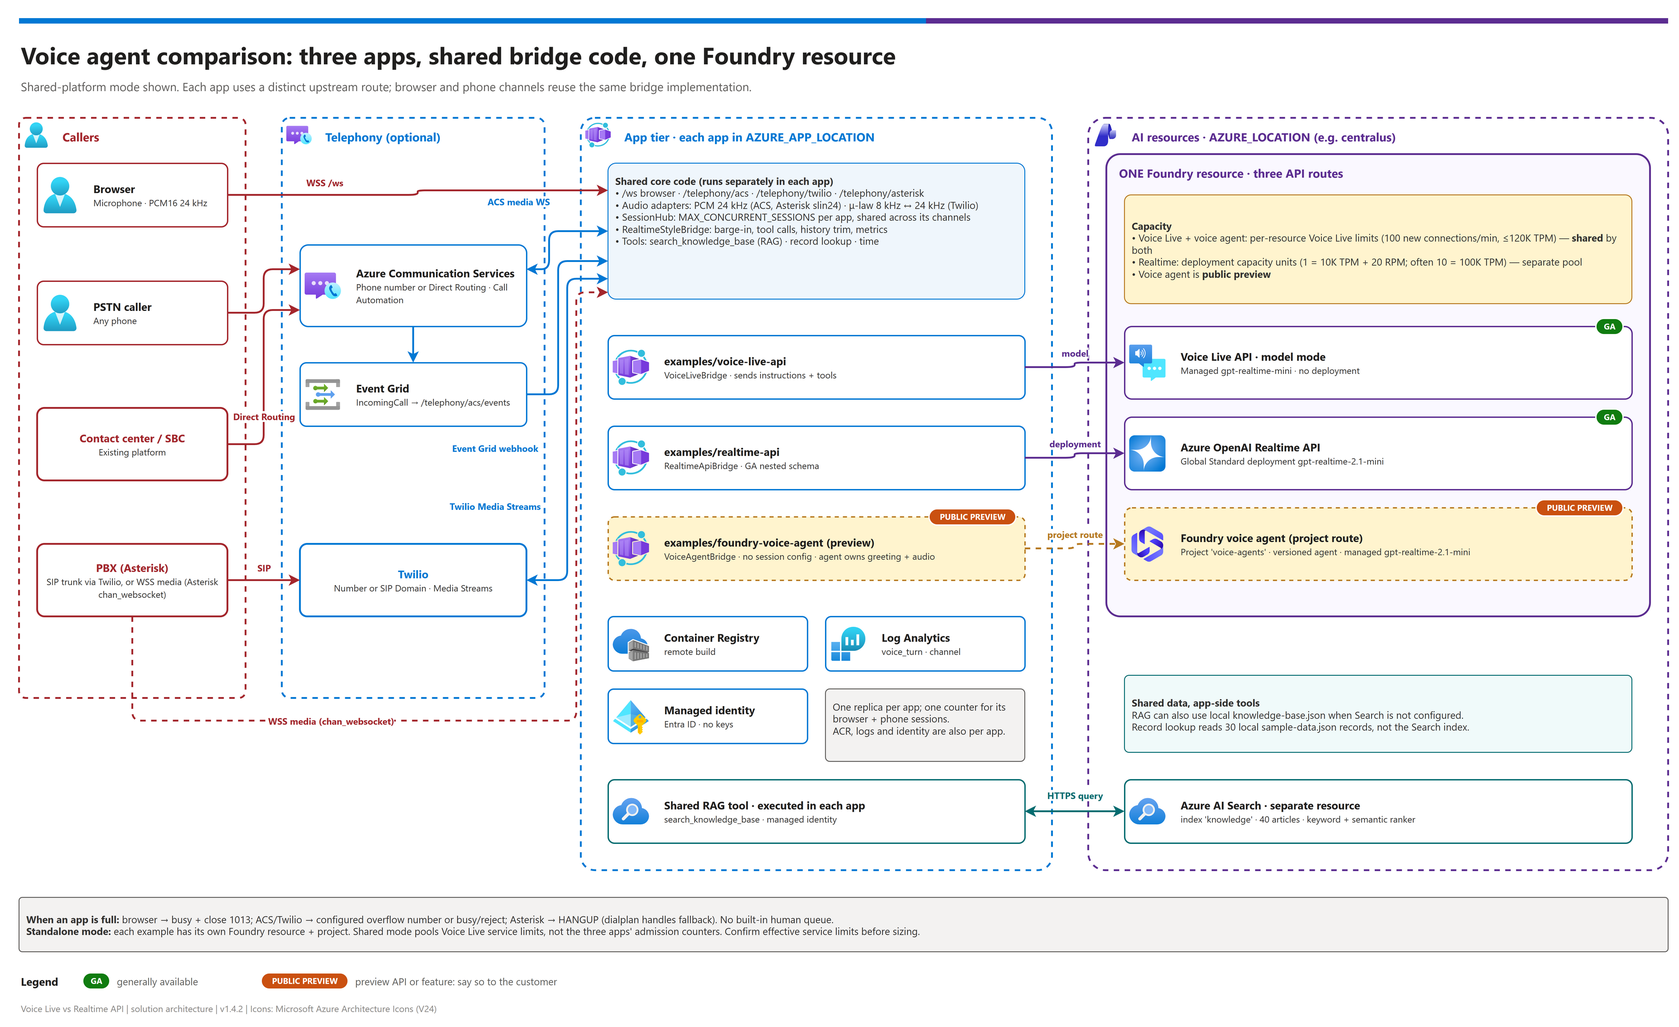
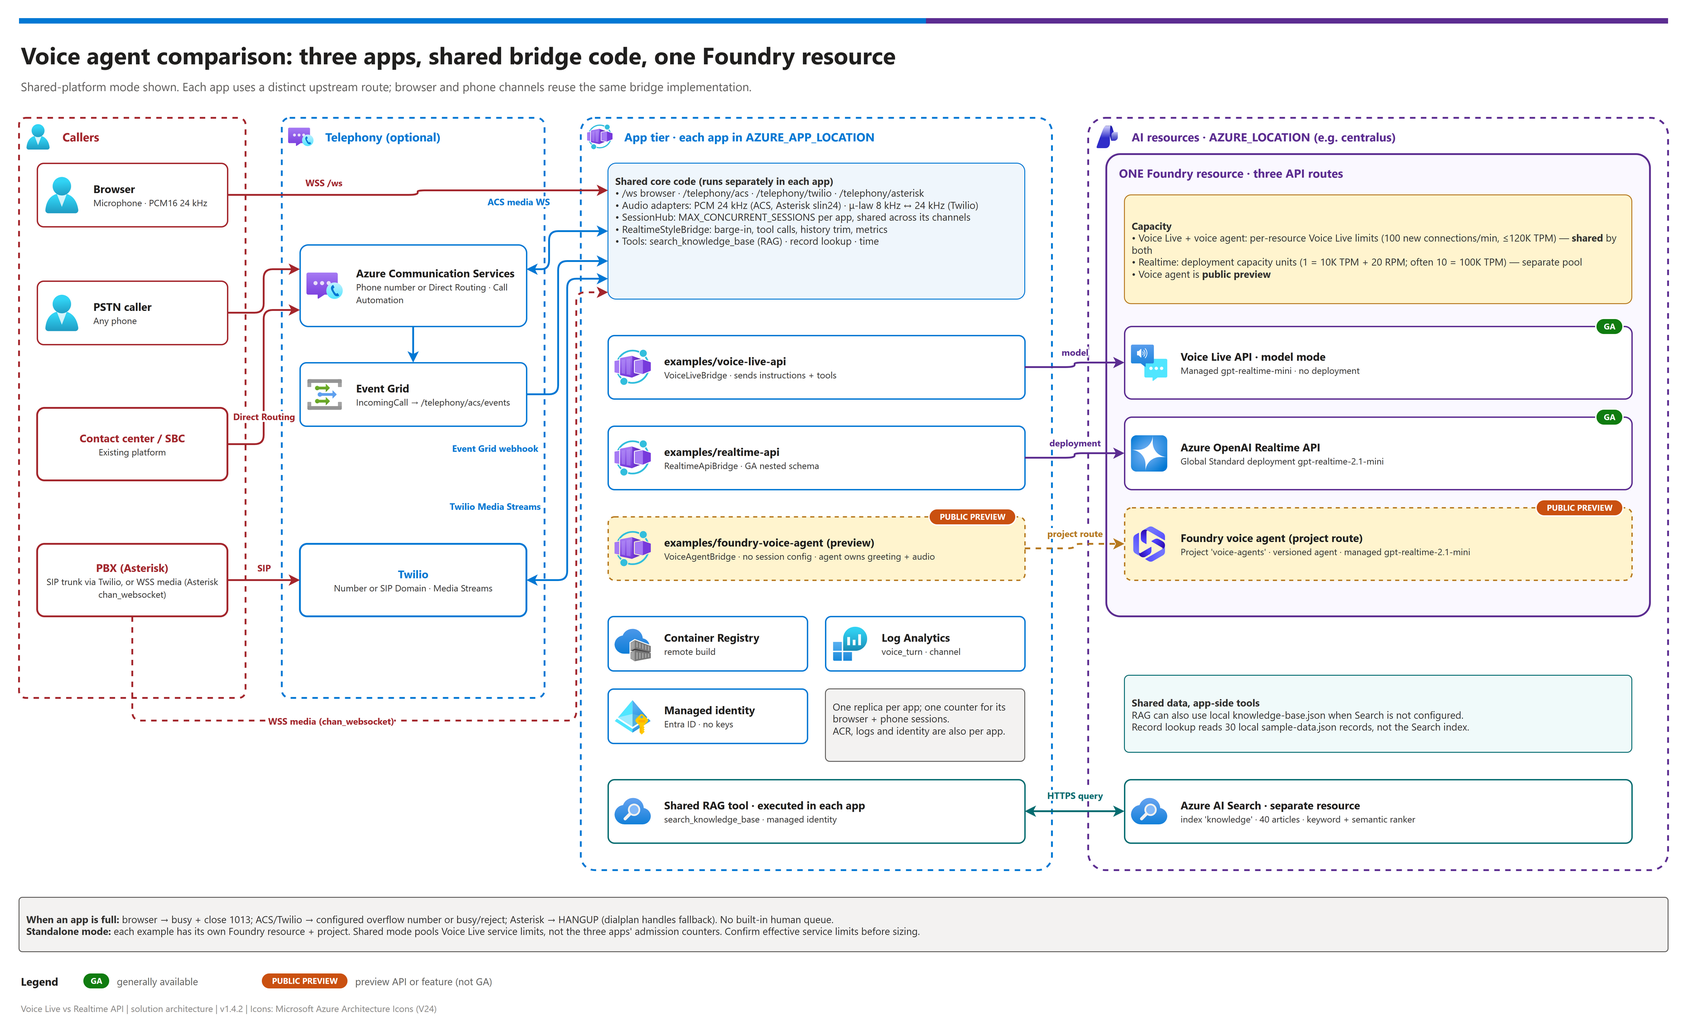
docs: customer-facing wording; remove internal terminology
Copilot-Session: d0f80635-099d-442c-a8b0-a62e914e1f52

diff --git a/docs/assets/comparison-one-pager.html b/docs/assets/comparison-one-pager.html
@@ -82,7 +82,7 @@
     </div>
   </div>
 
-  <div class="callout"><strong>Third option:</strong> <a href="../../examples/foundry-voice-agent/README.md">Foundry voice agent</a> is public preview. It stores instructions, tool declarations, voice, greeting, audio settings, versions, traces, and transcripts in a Foundry project; the bridge sends no session config and executes the tools (shared RAG). Its default is the project route <code>/api/projects/&lt;p&gt;/agents/&lt;a&gt;/endpoint/protocols/voice</code>, with managed models and no deployment. It shares Voice Live limits with the Voice Live app in shared-platform mode. Do not position it as production-ready.</div>
+  <div class="callout"><strong>Third option:</strong> <a href="../../examples/foundry-voice-agent/README.md">Foundry voice agent</a> is public preview. It stores instructions, tool declarations, voice, greeting, audio settings, versions, traces, and transcripts in a Foundry project; the bridge sends no session config and executes the tools (shared RAG). Its default is the project route <code>/api/projects/&lt;p&gt;/agents/&lt;a&gt;/endpoint/protocols/voice</code>, with managed models and no deployment. It shares Voice Live limits with the Voice Live app in shared-platform mode. Do not treat it as production-ready.</div>
 
   <h2>Core comparison</h2>
   <table class="compare">
@@ -140,6 +140,6 @@
   </div>
 
   <h2>Sources</h2>
-  <p class="sources">Verified 2026-09-25; local content revised 2026-09-30 (not a new external verification). <a href="../06-comparison-one-pager.md#sources">Full comparison and source list</a>: Voice Live reference, overview, release notes, quotas, regions, pricing; Azure OpenAI Realtime/WebRTC, retirement, quotas, regions, pricing, Retail Prices API. Re-verify lifecycle, regions, quota, and pricing before customer use. [1] retirement conflict; [2] no Voice Live dollars quoted; [3] capacity units observed 2026-09-29 via model catalog/live deployment (usage row labelled RPM counts units); [4] Voice Live 2.1-mini preview; [5] DZS availability conflict; [6] quota page checked 2026-09-28 lists 100 NCPM / &le;120K TPM, but TPM = NCPM &times; 4,000 gives 400K at 100 NCPM (its example uses 30 NCPM = 120K). Confirm effective TPM with support; do not infer 400K from the formula.</p>
+  <p class="sources">Verified 2026-09-25; local content revised 2026-09-30 (not a new external verification). <a href="../06-comparison-one-pager.md#sources">Full comparison and source list</a>: Voice Live reference, overview, release notes, quotas, regions, pricing; Azure OpenAI Realtime/WebRTC, retirement, quotas, regions, pricing, Retail Prices API. Re-verify lifecycle, regions, quota, and pricing before production use. [1] retirement conflict; [2] no Voice Live dollars quoted; [3] capacity units observed 2026-09-29 via model catalog/live deployment (usage row labelled RPM counts units); [4] Voice Live 2.1-mini preview; [5] DZS availability conflict; [6] quota page checked 2026-09-28 lists 100 NCPM / &le;120K TPM, but TPM = NCPM &times; 4,000 gives 400K at 100 NCPM (its example uses 30 NCPM = 120K). Confirm effective TPM with support; do not infer 400K from the formula.</p>
 </body>
 </html>

diff --git a/tests/test_reusability_guards.py b/tests/test_reusability_guards.py
@@ -118,3 +118,28 @@ def test_no_secret_patterns(repo_root):
         if api_key_literal.search(text) or "AccountKey=" in text or "-----BEGIN" in text:
             hits.append(str(path.relative_to(repo_root)))
     assert hits == []
+
+
+# Internal authoring-tool names and sales/process jargon have no meaning for readers outside
+# the original authoring team, so they must not appear in published files.
+INTERNAL_TERMS = re.compile(
+    r"demo-pattern-authoring|azure-architecture-diagrams|daily[_ ]?driver|MCAPS|\bMCEM\b|\bMSX\b|\bTPID\b|\bCSAM\b"
+    r"|hard[- ]rules?\s*#|authoring gate|Copilot CLI session|\bSolution Engineers?\b|\bsellers?\b|\baccount team\b"
+    r"|hands-on-keyboard|Technical Close Plan|\bwin plan\b|\bsolution play\b|\bMACC\b|Azure Consumed Revenue"
+    r"|consumption uplift|Tech Elevate|Cloud Accelerate Factory|Viva Engage|\bSeismic\b|microsoft\.sharepoint\.com"
+    r"|\binternal[- ]only\b|Microsoft[- ]internal|not for customer distribution|\btalk track\b",
+    re.IGNORECASE,
+)
+
+
+def test_no_internal_terminology(repo_root):
+    this_file = repo_root / "tests" / "test_reusability_guards.py"
+    hits = []
+    for path in _text_files(repo_root):
+        if path == this_file:
+            continue
+        text = path.read_text(encoding="utf-8", errors="ignore")
+        for lineno, line in enumerate(text.splitlines(), 1):
+            for match in INTERNAL_TERMS.finditer(line):
+                hits.append(f"{path.relative_to(repo_root)}:{lineno}: {match.group(0)}")
+    assert hits == [], "Rewrite internal terminology for an external reader"

diff --git a/scripts/lint_doc_visuals.py b/scripts/lint_doc_visuals.py
@@ -1,5 +1,5 @@
 #!/usr/bin/env python3
-"""Lint demo docs against the visual-richness standard (demo-pattern-authoring hard-rule #19).
+"""Lint demo docs against the visual documentation standard used in this repo.
 
 Checks README.md and docs/*.md. Errors fail the run; warnings fail only with --strict.
 

diff --git a/docs/04-testing.md b/docs/04-testing.md
@@ -42,7 +42,7 @@ Test plan for proving the three browser voice agents work, stay reusable, and ca
 | Quality and regression harness | Measure latency, tokens, throughput, and busy responses under concurrency | Before demos and after model/capacity changes | ![Live-tested](./assets/badges/live-tested.svg) 1-session probe only; 4/10/20-session sweeps are not recorded |
 | Same-model bake-off | Compare Voice Live API, Foundry voice agent, and Realtime API with the same prompts and model family | Before presenting results | ![Static only](./assets/badges/static-only.svg) |
 | Observability checks | Confirm app logs and Azure metrics show the evidence you need | Every load-test run | ![Static only](./assets/badges/static-only.svg) |
-| Demo script | Practice the 5-minute customer walkthrough | Day-of-demo dry run | ![Static only](./assets/badges/static-only.svg) |
+| Demo script | Practice the 5-minute walkthrough | Day-of-demo dry run | ![Static only](./assets/badges/static-only.svg) |
 
 ---
 
@@ -91,7 +91,7 @@ What the suite covers:
 | `tests\test_realtime_example.py` | Realtime GA `/openai/v1/realtime` URL with no `api-version`, no `OpenAI-Beta` header, token-scope override, nested GA session schema, optional transcription deployment, GA fake-upstream tool flow, Dockerfile COPY guards, Bicep model deployment guards, and `azure.yaml` remote build guards |
 | `tests\test_foundry_voice_agent_example.py` | Foundry voice-agent URL/auth/session contract, agent-mode audio-only `session.update`, client-executed tool/RAG flow, agent definition creation from `config\agent-profile.json`, and infra/postprovision hook guards |
 | `tests\test_loadtest_probe.py` | Concurrency probe summary math (ready, busy, error, p50/p90 TTFA, response ms, tokens per turn, per-session TPM, aggregate TPM), plus an end-to-end run against a real `uvicorn` app and the fake upstream: greeting drained, turns measured, and the session over the cap reported as `busy` |
-| `tests\test_reusability_guards.py` | No domain leakage into shared or load-test Python, no secret patterns, no personal profile paths (`C:\Users\<name>`), and no customer-identifying terms. The terms are kept out of the repo on purpose: list them one per line in the gitignored `tests\forbidden-terms.local.txt`, or set `FORBIDDEN_TERMS="a,b"`. The check skips when neither is present. |
+| `tests\test_reusability_guards.py` | No domain leakage into shared or load-test Python, no secret patterns, no personal profile paths (`C:\Users\<name>`), no internal authoring or sales-process terminology, and no customer-identifying terms. The terms are kept out of the repo on purpose: list them one per line in the gitignored `tests\forbidden-terms.local.txt`, or set `FORBIDDEN_TERMS="a,b"`. The check skips when neither is present. |
 | `tests\test_retarget_domain.py` | End-to-end retargeting by profile and data file only, proving the example domain is not hardcoded into shared code |
 | **Validation level** | ![Static only](./assets/badges/static-only.svg) All files run offline against in-process fakes; none call Azure |
 
@@ -356,11 +356,11 @@ with real calls. Filter logs by the `channel` field (`browser`, `acs`, `twilio`)
 and narrowband phone results separate.
 
 > [!WARNING]
-> The Asterisk probe and the phone test plan are ![Static only](./assets/badges/static-only.svg) in the CHANGELOG record: the probe was verified against a local server, and no live ACS, Twilio or Asterisk call is recorded. Record your own result before showing phone calls to a customer.
+> The Asterisk probe and the phone test plan are ![Static only](./assets/badges/static-only.svg) in the CHANGELOG record: the probe was verified against a local server, and no live ACS, Twilio or Asterisk call is recorded. Record your own result before demonstrating phone calls to an audience.
 
-## Five-minute customer walkthrough
+## Five-minute walkthrough
 
-| Minute | Action | Talk track |
+| Minute | Action | Presenter notes |
 |---|---|---|
 | 0:00-0:45 | Open all three deployed apps | "Same browser UI, same tools, same profile, same data. Only the upstream API changes." |
 | 0:45-1:30 | Show `/api/info` for all three | "The app reports API, model, voice, and session cap from the deployed config." |
@@ -368,7 +368,7 @@ and narrowband phone results separate.
 | 2:15-3:00 | Start Realtime API, ask the same spoken question | "Realtime API uses an explicit Azure OpenAI deployment sized against quota." |
 | 3:00-3:45 | Type the same configured tool question in all three | "Tools run server-side. Credentials and tool implementation never go to the browser." |
 | 3:45-4:30 | Show metrics panels | "The comparison uses app-side TTFA, response latency, tokens, and TPM, not subjective impressions only." |
-| 4:15-4:40 | Start the Foundry voice agent and show the agent-version/traces positioning | "The agent stores instructions, tools, voice, transcripts, traces, and evaluation hooks in Foundry; the bridge still executes tools so RAG stays shared." |
+| 4:15-4:40 | Start the Foundry voice agent and show agent versions and traces | "The agent stores instructions, tools, voice, transcripts, traces, and evaluation hooks in Foundry; the bridge still executes tools so RAG stays shared." |
 | 4:40-5:00 | Show load-test result table | "Capacity decisions come from p90 TPM and concurrency math, then quota and service limits." |
 
 ### Demo-script validation

diff --git a/docs/06-comparison-one-pager.md b/docs/06-comparison-one-pager.md
@@ -15,7 +15,7 @@
 
 **Bottom line:** this page is the two-GA-API deep dive. The repo now also includes a third option, a Foundry voice agent public preview; use the root README for the full three-way decision table. Same model family, same browser app, same Python bridge pattern — the practical difference is who manages model deployment, capacity/quota, voice/audio processing, and lifecycle risk.
 
-This page keeps the comparison intentionally narrow: two GA browser voice agents, both deployed to Azure Container Apps, both using managed identity, the same web client, the same shared Python core, and the same reusable agent profile. The only intentional differences are the upstream realtime API bridge and the infrastructure required to provision that API. It is written for the architect choosing between the two GA APIs and for anyone forwarding the comparison to a customer.
+This page keeps the comparison intentionally narrow: two GA browser voice agents, both deployed to Azure Container Apps, both using managed identity, the same web client, the same shared Python core, and the same reusable agent profile. The only intentional differences are the upstream realtime API bridge and the infrastructure required to provision that API. It is written for the architect choosing between the two GA APIs and for anyone sharing the comparison with stakeholders.
 
 ## At a glance
 
@@ -40,7 +40,7 @@ For production today, choose between these two GA API paths. Consider the Foundr
 | Use Voice Live API when... | Use Realtime API when... | Foundry voice agent ![Public preview](./assets/badges/public-preview.svg) when... |
 |---|---|---|
 | You want managed realtime models with no model deployment resource to create. | You need direct control of the deployed model version, deployment name, and upgrade behavior. | You want the agent definition to live as a versioned Foundry asset instead of app-only config. |
-| You prefer per-resource Voice Live limits over per-model Azure OpenAI deployment quota management. | You already have Azure OpenAI realtime quota, know the target region, and want to allocate deployment capacity yourself. | You can accept public preview and are not positioning it as production-ready. |
+| You prefer per-resource Voice Live limits over per-model Azure OpenAI deployment quota management. | You already have Azure OpenAI realtime quota, know the target region, and want to allocate deployment capacity yourself. | You can accept public preview and do not need it to be production-ready yet. |
 | You need Azure neural, HD, or custom voices, plus OpenAI voices. | You need the GA nested Realtime session schema and the OpenAI voice set. | You want Foundry portal traces, stored transcripts/audio, and evaluation hooks. |
 | You want built-in Azure semantic VAD, deep noise suppression, server echo cancellation, and built-in input transcription. | You want WebRTC ephemeral tokens or direct SIP transport on the Realtime API surface. | You are comfortable with Voice Live per-resource limits and no Azure OpenAI deployment quota. |
 | You want Avatar, BYOM, or Foundry Agent Service agent mode from the same Voice Live surface. | You are staying close to an existing Realtime API contact-center implementation and want the smallest upstream contract delta. | You want native Twilio/Teams Phone binding and transfer-to-human options available later, though this demo keeps telephony on the shared bridge. |
@@ -64,7 +64,7 @@ The third example, `examples\foundry-voice-agent\`, is a Foundry Agent Service v
 Capacity-wise, it behaves like Voice Live for this demo: no model deployment and no Azure OpenAI quota, but it shares the resource's Voice Live new-connection and TPM limits when run on the shared platform. Treat it as a preview governance/observability option, not a production replacement for the two GA API paths.
 
 > [!WARNING]
-> The voice agent is public preview. Do not position it as a production replacement for the two GA API paths.
+> The voice agent is public preview. Do not treat it as a production replacement for the two GA API paths.
 
 > [!NOTE]
 > [`assets/comparison-one-pager.pdf`](./assets/comparison-one-pager.pdf) is a concise, one-page export of [`assets/comparison-one-pager.html`](./assets/comparison-one-pager.html), not a reproduction of this longer Markdown deep dive. The HTML/PDF intentionally compare the two GA APIs with a preview callout for the third option. Regenerate from the repo root with `pwsh scripts\export-comparison.ps1` (Microsoft Edge). The print copy disables navigation links to avoid embedding local file paths; the HTML keeps its links.
@@ -271,7 +271,7 @@ After deployment, run the shared tests and load probe from [04-testing.md](04-te
 
 ## <img src="./assets/icons/file.svg" width="28" alt=""/> Sources
 
-Verified 2026-09-25; re-verify model lifecycle, regions, quota, and pricing before customer use.
+Verified 2026-09-25; re-verify model lifecycle, regions, quota, and pricing before production use.
 
 | Topic | Where to re-check |
 |---|---|

diff --git a/docs/01-architecture.md b/docs/01-architecture.md
@@ -185,7 +185,7 @@ The root README has the three-way comparison, while [`06-comparison-one-pager.md
 | `examples\*\infra\modules\resources.bicep` | Standalone: own Foundry resource with project management, project, and role assignments; no model deployment. Shared: reuses platform resource/project. | Standalone: own Foundry resource with project management, project, and `accounts/deployments` realtime model. Shared: reuses platform resource/project/deployment. | Standalone: own Foundry resource with `allowProjectManagement: true`, system identity, and a `Microsoft.CognitiveServices/accounts/projects@2025-06-01` project. Shared: reuses platform resource/project. |
 | `examples\*\infra\main.parameters.json` | Uses `VOICE_LIVE_MODEL`, `VOICE_LIVE_VOICE`, and `MAX_CONCURRENT_SESSIONS`. | Uses `AZURE_OPENAI_REALTIME_MODEL`, `AZURE_OPENAI_REALTIME_MODEL_VERSION`, `AZURE_OPENAI_REALTIME_DEPLOYMENT`, `REALTIME_DEPLOYMENT_CAPACITY`, `REALTIME_VERSION_UPGRADE_OPTION`, `REALTIME_VOICE`, and `MAX_CONCURRENT_SESSIONS`. | Uses `VOICE_AGENT_MODEL`, `VOICE_AGENT_VOICE`, `VOICE_AGENT_NAME`, `VOICE_AGENT_PROJECT_NAME`, shared-project values, and `MAX_CONCURRENT_SESSIONS`. |
 
-Everything else should remain shared unless a future decision record says otherwise.
+Everything else should remain shared unless the locked decisions change.
 
 ---
 
@@ -225,7 +225,7 @@ Primary measurements:
 ## Decisions with rationale
 
 > [!NOTE]
-> Each decision below is also summarized in the README's locked-decisions table; change them only with an updated decision record.
+> Each decision below is also summarized in the README's locked-decisions table; change them only by updating that table and these docs together.
 
 ### Server-side WebSocket bridge
 

diff --git a/README.md b/README.md
@@ -249,7 +249,7 @@ Same steps in `examples\foundry-voice-agent`. `azd up` also creates the agent fr
 
 ## Locked decisions
 
-These are the v1 baseline. Deviate only with an updated decision record and docs.
+These are the v1 baseline. To change one, update this table and the affected docs together.
 
 | # | Decision | Choice | Rationale |
 |---|---|---|---|
@@ -301,7 +301,7 @@ All narrative documentation lives under `docs\`. The repo root holds only this R
 | [`docs\03b-manual-deployment.md`](./docs/03b-manual-deployment.md) | Portal and imperative CLI alternative to the IaC path. |
 | [`docs\04-testing.md`](./docs/04-testing.md) | Functional, load, same-model bake-off, and regression test plan. |
 | [`docs\05-troubleshooting.md`](./docs/05-troubleshooting.md) | Symptom-first troubleshooting guide. |
-| [`docs\06-comparison-one-pager.md`](./docs/06-comparison-one-pager.md) | Detailed Voice Live vs. Realtime comparison and positioning one-pager. |
+| [`docs\06-comparison-one-pager.md`](./docs/06-comparison-one-pager.md) | Detailed Voice Live vs. Realtime comparison and decision guide. |
 | [`docs\07-telephony-and-shared-endpoint.md`](./docs/07-telephony-and-shared-endpoint.md) | Shared Foundry platform, ACS/Twilio/Asterisk/PBX phone channels, RAG, quota comparison, and the phone test plan. |
 | [`docs\10-knowledge-base.md`](./docs/10-knowledge-base.md) | Synthetic knowledge base (40 articles, 30 request records), `knowledge\` azd project for Azure AI Search, and wiring the examples to it. |
 | `knowledge\` | Infra-only azd project: Azure AI Search + synthetic `knowledge` index (postprovision loads it). |

diff --git a/docs/03-deployment.md b/docs/03-deployment.md
@@ -342,7 +342,7 @@ What to look for:
 - [ ] `Microsoft.App`, `Microsoft.ContainerRegistry`, `Microsoft.CognitiveServices`, `Microsoft.ManagedIdentity`, and `Microsoft.OperationalInsights` are registered or registering.
 - [ ] `$Location` is one of `centralus`, `eastus2`, or `swedencentral` for side-by-side deployment.
 - [ ] `az cognitiveservices usage list -l $Location -o table` has been reviewed for quota and capacity risk.
-- [ ] Any required quota request is filed before a customer-facing build.
+- [ ] Any required quota request is filed before a demo or production build.
 
 ---
 
@@ -782,12 +782,12 @@ az cognitiveservices account purge --name <account-name> --resource-group <delet
 ## Post-deployment checklist
 
 > [!NOTE]
-> Tick every box before a customer walkthrough; the smoke test proves the app, not upstream audio or real calls.
+> Tick every box before a live walkthrough; the smoke test proves the app, not upstream audio or real calls.
 
 - [ ] Voice Live, Realtime API, and Foundry voice agent were deployed to the same Tier-1 region for side-by-side testing.
 - [ ] Browser smoke test passed for all deployed examples.
 - [ ] Local run passed for at least one example.
-- [ ] Load test plan in [04-testing.md](./04-testing.md) is ready before any customer walkthrough.
+- [ ] Load test plan in [04-testing.md](./04-testing.md) is ready before any live walkthrough.
 - [ ] Troubleshooting runbook in [05-troubleshooting.md](./05-troubleshooting.md) is available during the demo.
 - [ ] Teardown command and purge behavior are understood before creating throwaway environments.
 

diff --git a/docs/03b-manual-deployment.md b/docs/03b-manual-deployment.md
@@ -17,7 +17,7 @@
   <img src="./assets/badges/optional.svg" alt="Optional alternative to azd">
 </p>
 
-Manual deployment path for customers who cannot run `azd`, ARM, or Bicep. It produces the same **resource kinds, role assignments, container image shape, ingress, identity model, and application environment variables** as [03-deployment.md](./03-deployment.md), using Azure Portal and imperative Azure CLI commands.
+Manual deployment path for teams who cannot run `azd`, ARM, or Bicep. It produces the same **resource kinds, role assignments, container image shape, ingress, identity model, and application environment variables** as [03-deployment.md](./03-deployment.md), using Azure Portal and imperative Azure CLI commands.
 
 > [!TIP]
 > **Use the IaC path when you can.** Manual deployment usually takes ~45-60 minutes. The `azd` path usually takes ~10-15 minutes per example and is less error-prone.

diff --git a/CHANGELOG.md b/CHANGELOG.md
@@ -13,6 +13,7 @@ Change history for the reusable demo pattern. Entries are newest-first.
 ### Changed
 
 - GitHub repository renamed from `azure-voice-options-demo` to `contact-center-voice-agent-options` to name the use case. Old links redirect automatically. README title updated; no code, Azure resource, or environment names changed.
+- Docs: rewrote for external audiences; removed internal terminology. The walkthrough script column is now "Presenter notes", audience-specific wording is addressed to the reader, decision-record references point at the README locked-decisions table, and the diagram legend reads "preview API or feature (not GA)" (PNGs re-exported). `tests\test_reusability_guards.py` gains `test_no_internal_terminology`. The committed `comparison-one-pager.pdf` was not regenerated in this change.
 
 ---
 

diff --git a/docs/07-telephony-and-shared-endpoint.md b/docs/07-telephony-and-shared-endpoint.md
@@ -321,7 +321,7 @@ Set the Voice webhook (HTTP POST) to `https://<app>/telephony/twilio/voice`:
 Point one Twilio number (or one SIP Domain) at each app; to compare, change the webhook
 among the **three app URLs** or use three numbers. Each number/SIP Domain has one target at a time; the wrapper prints these URLs but does not configure Twilio Console for you.
 
-**Generic customer pattern:** an existing contact-center platform or SBC reaches ACS through
+**Generic enterprise pattern:** an existing contact-center platform or SBC reaches ACS through
 **Direct Routing**, or any platform that can stream call audio over a WebSocket can be added
 as another adapter in `shared/voiceagent_core/telephony/` without changing the bridge.
 
